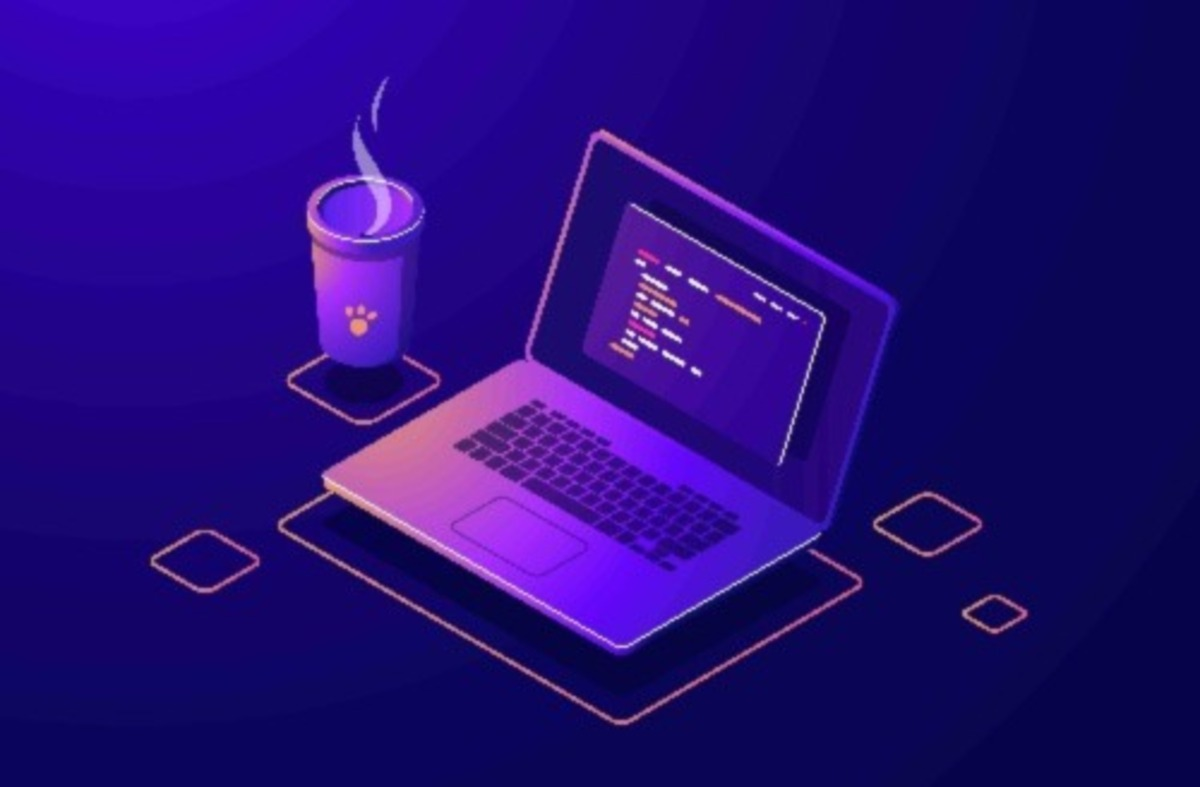
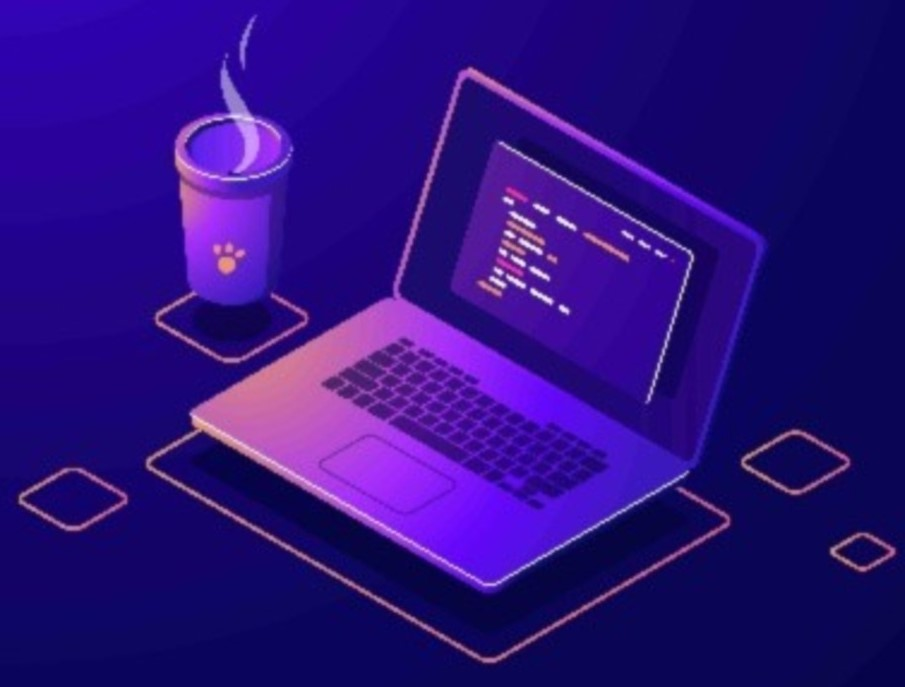
Baseline 3.25
siteImage test (with image from template)

diff --git a/gatsby-config.js b/gatsby-config.js
@@ -15,7 +15,7 @@ module.exports = {
     siteHeadline: `Portfolio`,
     siteUrl: `https://pmday-break.netlify.app/`,
     siteDescription: `The professional services of PM Daybreak Designs`,
-    siteImage: `/about-us-cover-image5.jpg`,
+    siteImage: `/banner.jpg`,
     author: `Paul-Matthew`,
   },
   plugins: [
